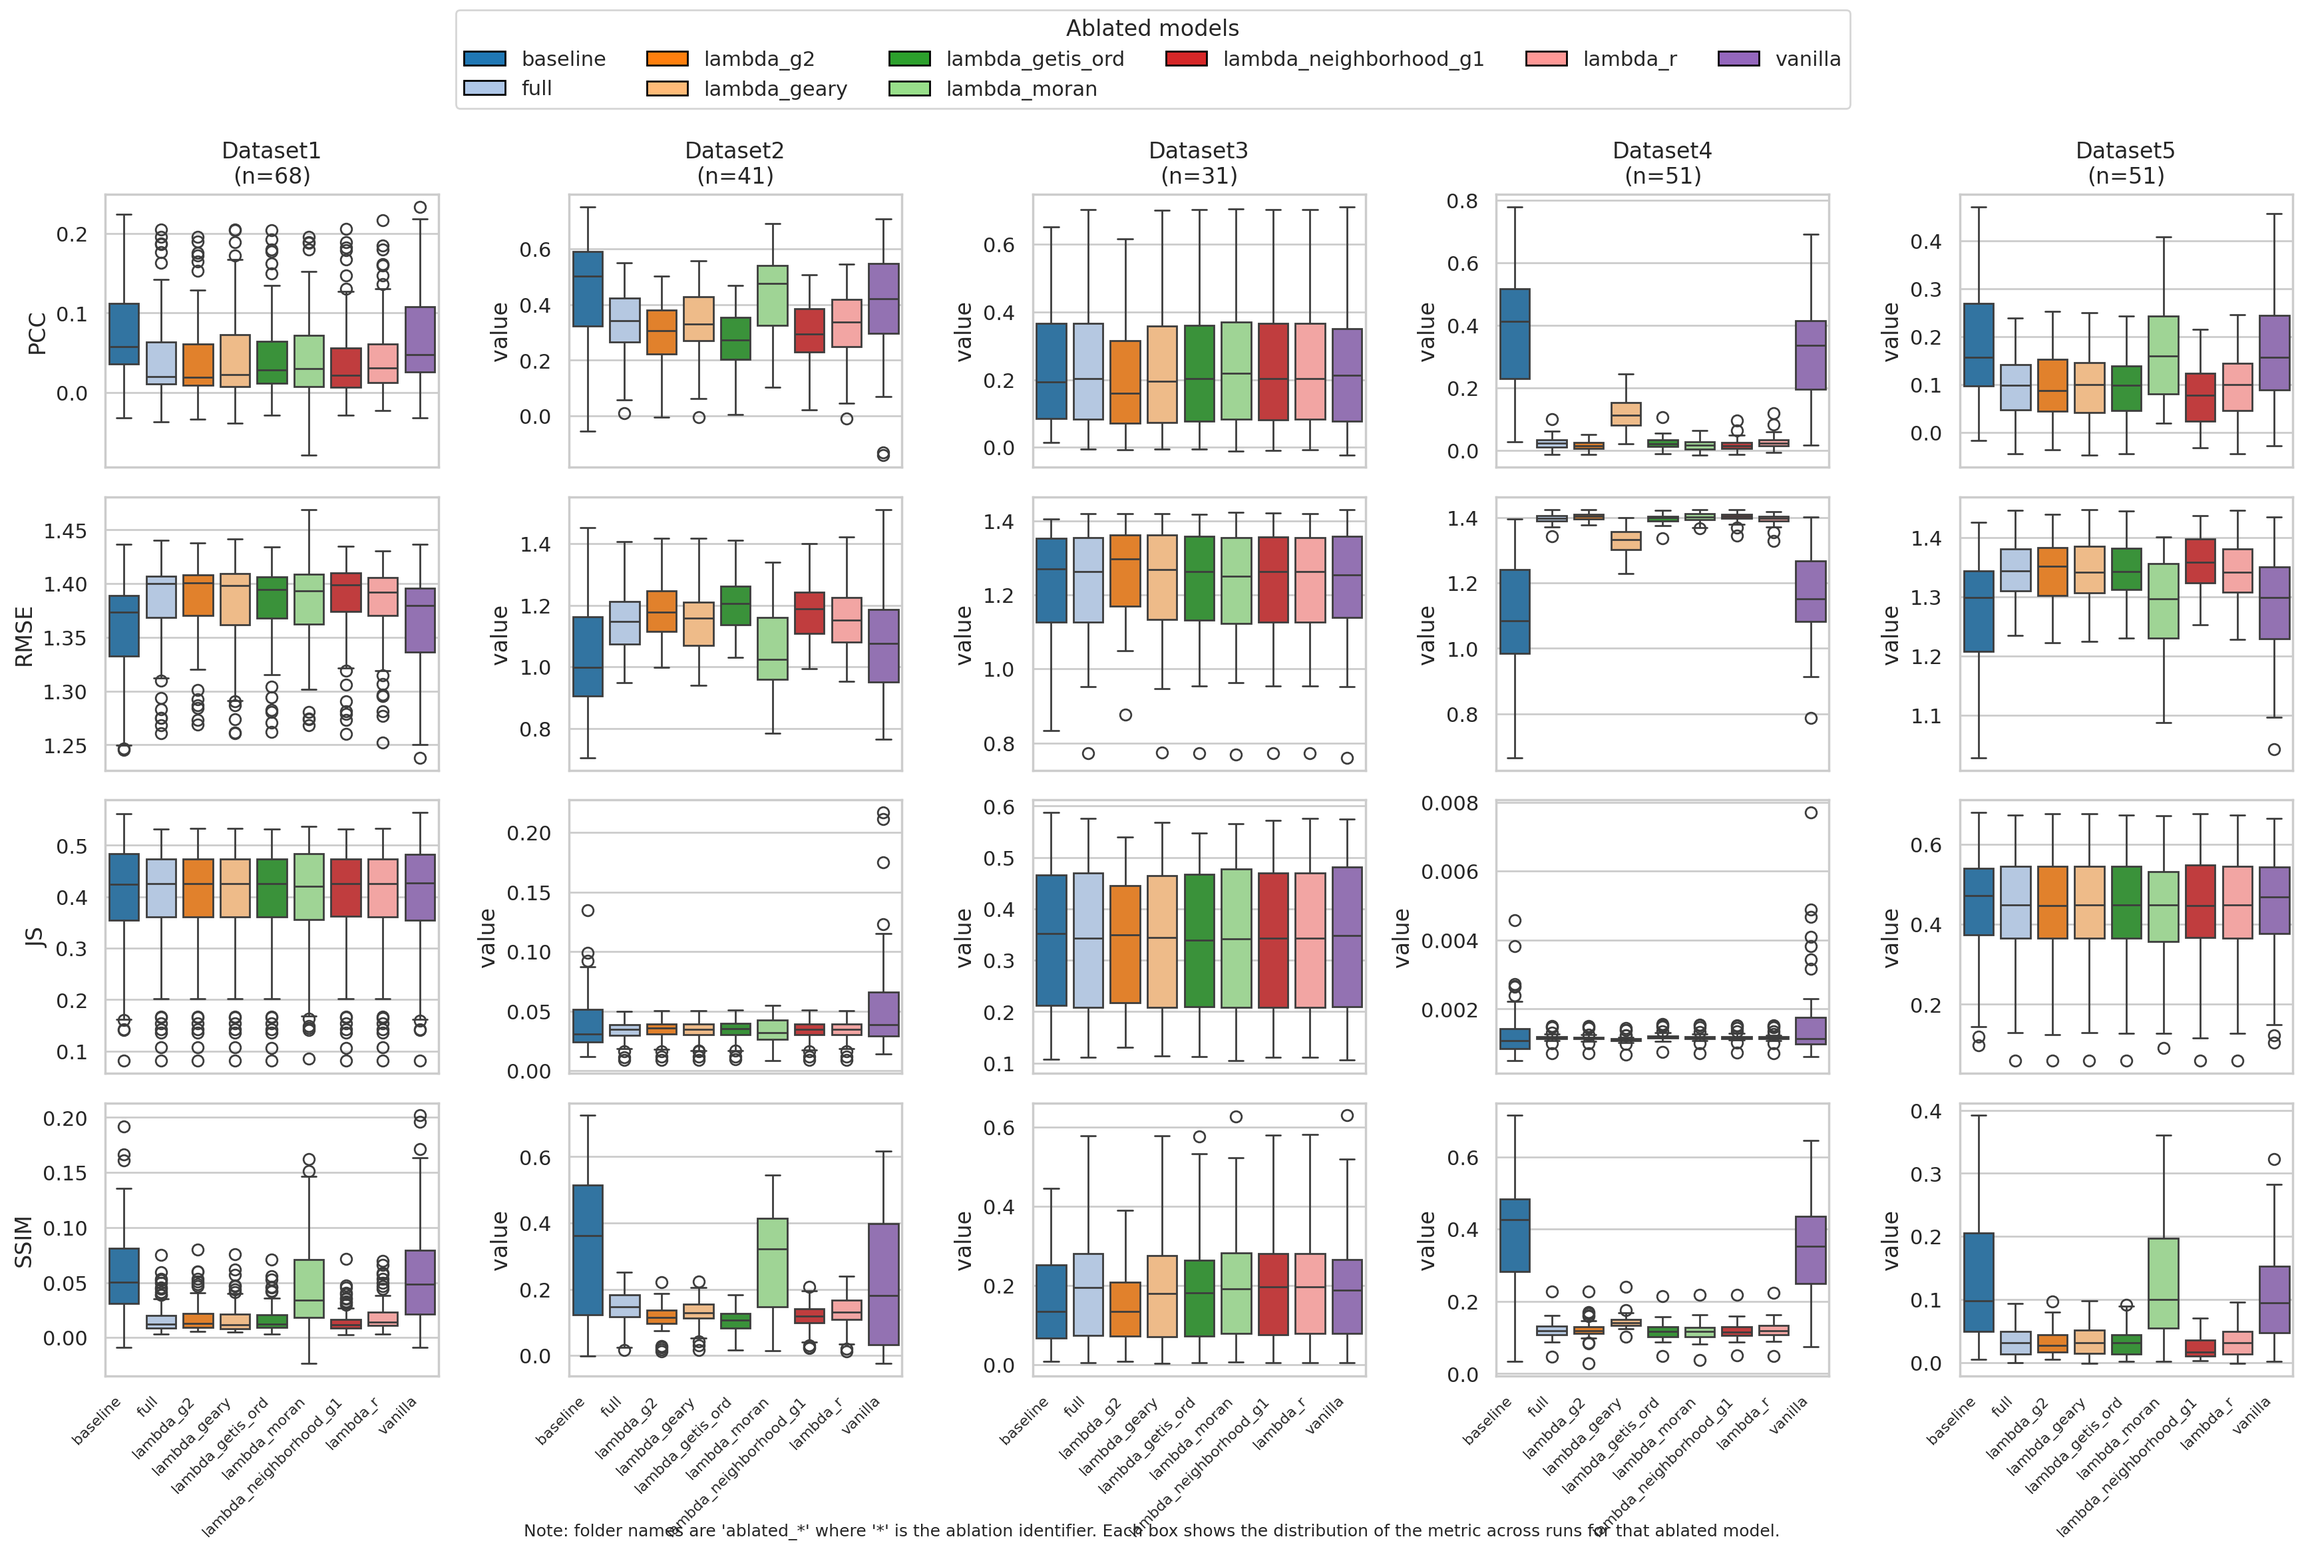
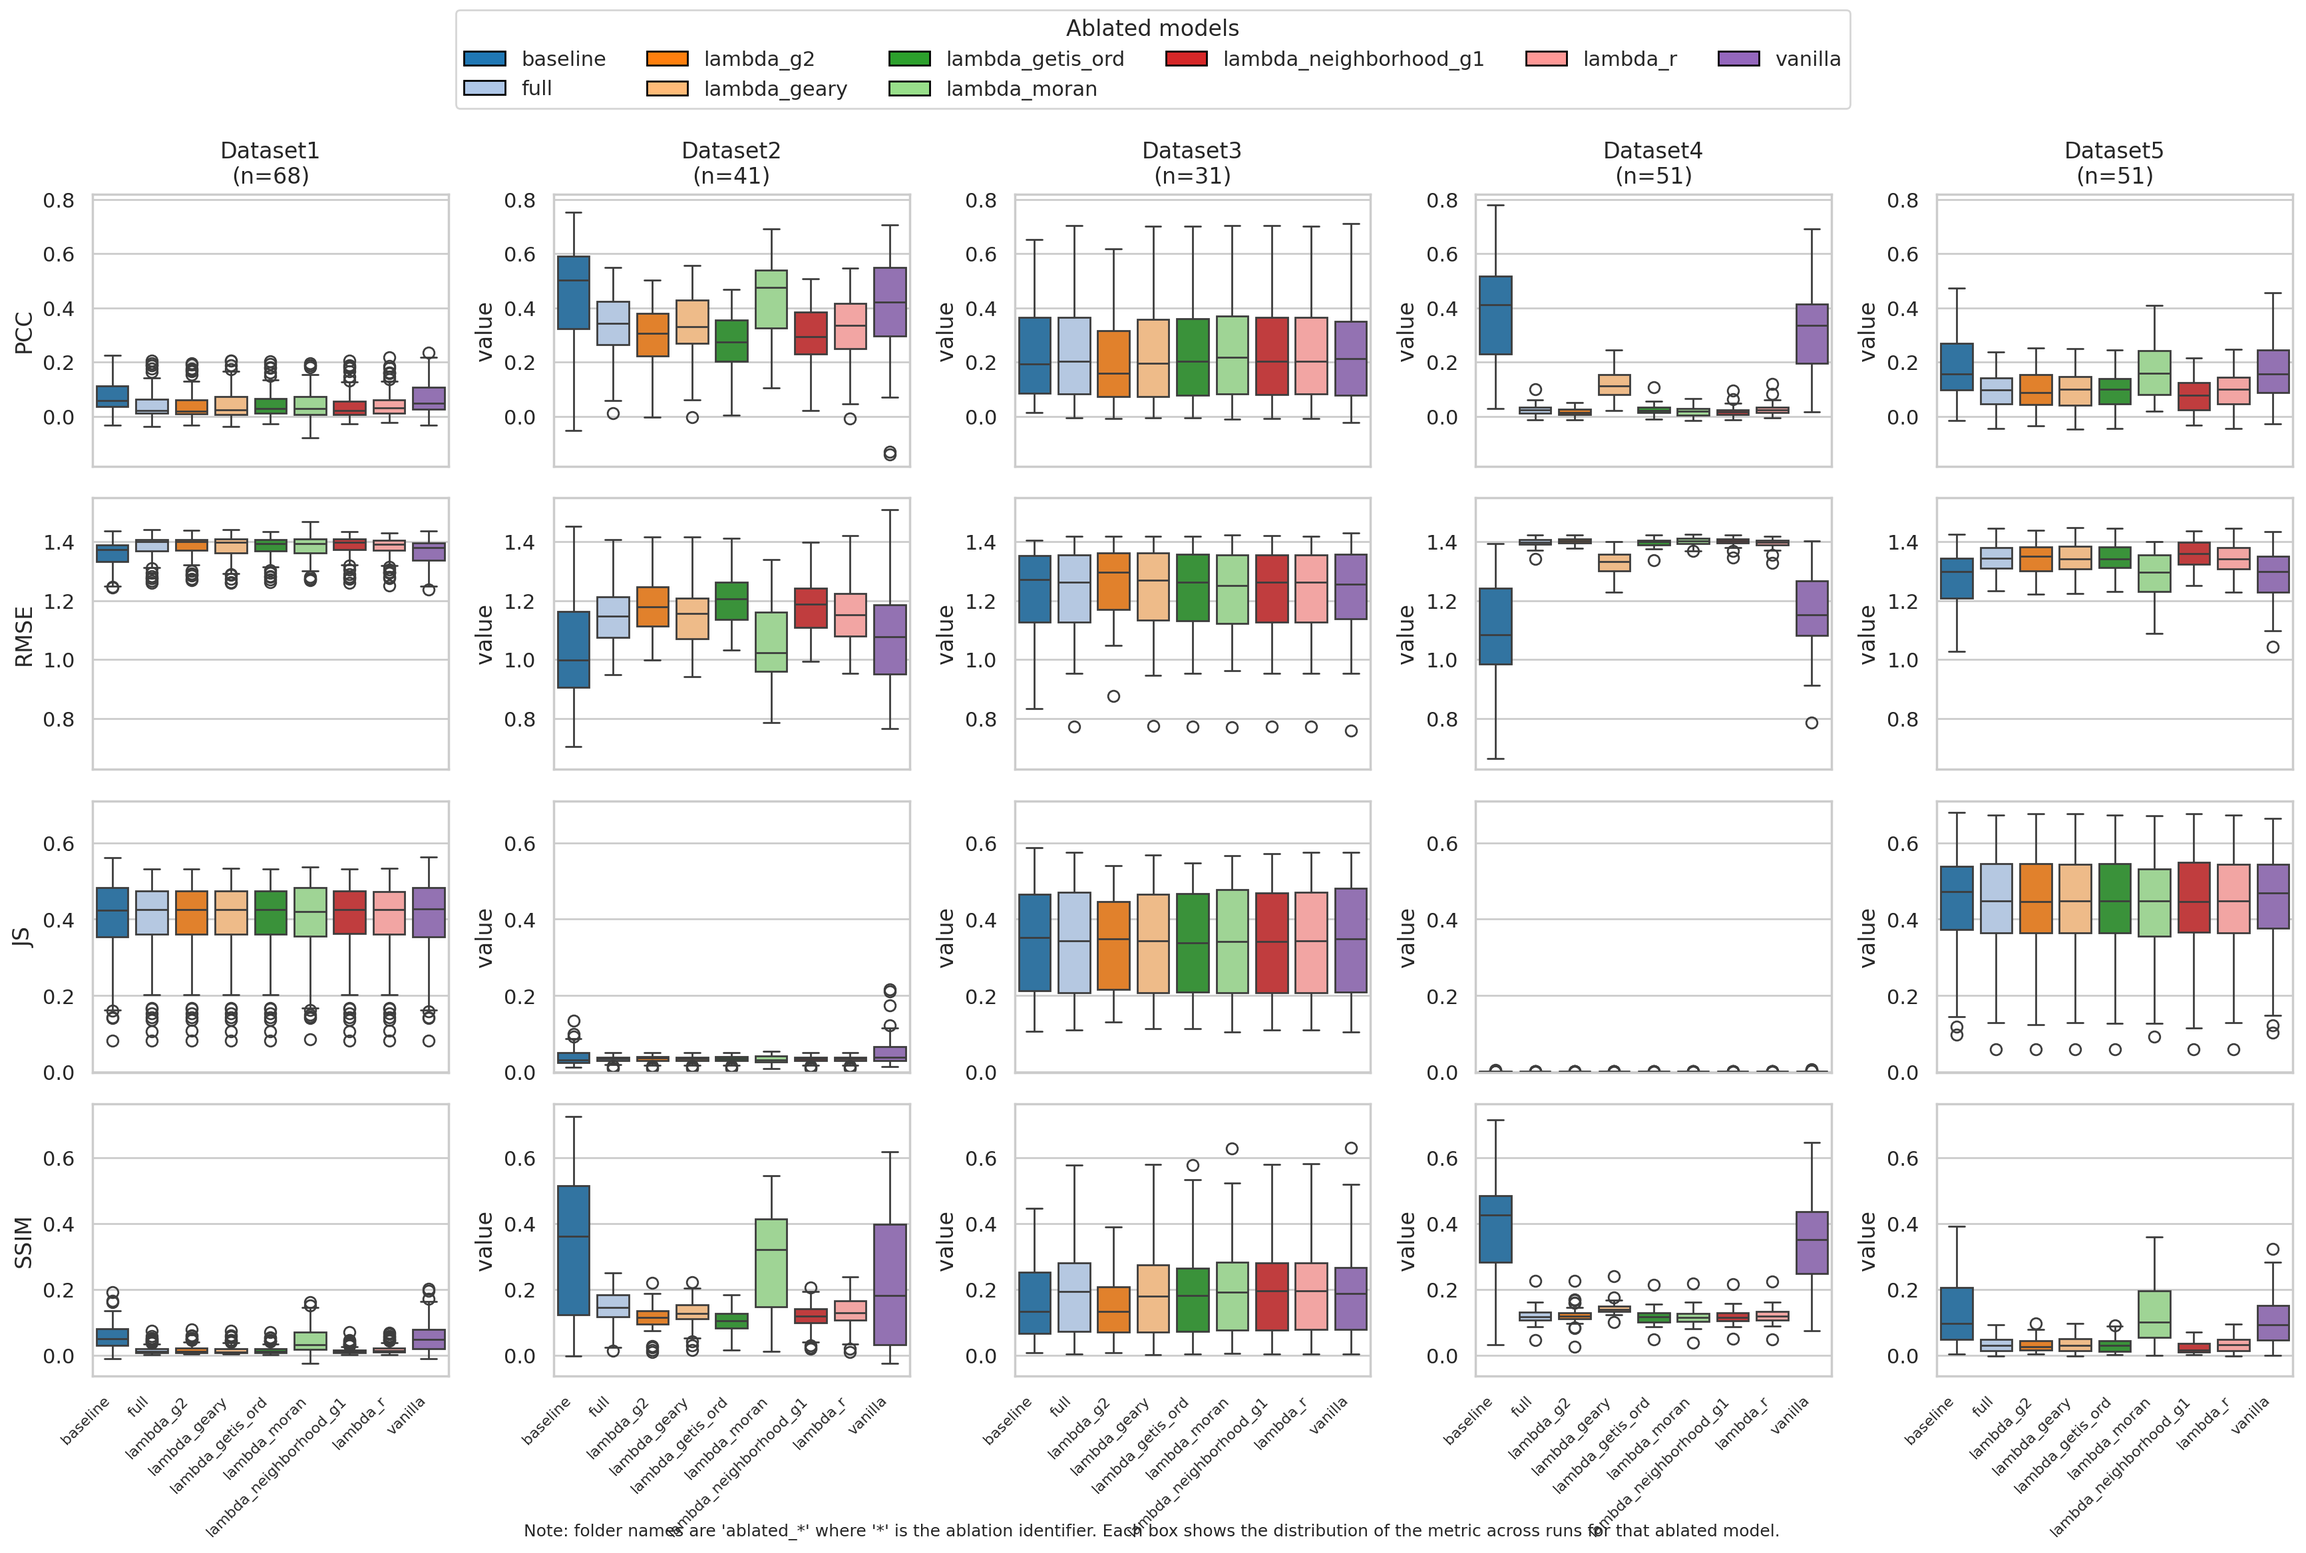
anchor y axes for all plots

diff --git a/benchmarking/benchmark_addition.py b/benchmarking/benchmark_addition.py
@@ -302,6 +302,23 @@ def make_and_save_plots(results: dict, split: str = "train", datasets=None, spli
                 n_text = n_per_split if isinstance(n_per_split, int) and n_per_split >= 0 else "?"
                 ax.set_title(f"{ds}\n(n={n_text})")
 
+    # Normalize y-axis limits within each row (metric)
+    for i, metric in enumerate(METRICS):
+        # Collect all y-limits from this row
+        y_mins, y_maxs = [], []
+        for j in range(cols):
+            ax = axes[i][j]
+            y_min, y_max = ax.get_ylim()
+            y_mins.append(y_min)
+            y_maxs.append(y_max)
+        
+        # Set uniform limits for all subplots in this row
+        if y_mins and y_maxs:
+            global_y_min = min(y_mins)
+            global_y_max = max(y_maxs)
+            for j in range(cols):
+                axes[i][j].set_ylim(global_y_min, global_y_max)
+
     # Add global legend and caption
     import matplotlib.patches as mpatches
     legend_handles = [mpatches.Patch(facecolor=addition_palette[ab], edgecolor='black', label=addition_display[ab]) for ab in all_additions]

diff --git a/benchmarking/benchmark_ablation.py b/benchmarking/benchmark_ablation.py
@@ -250,6 +250,23 @@ def make_and_save_plots(results: dict, split: str = "train", datasets=None, spli
                 n_text = n_per_split if isinstance(n_per_split, int) and n_per_split >= 0 else "?"
                 ax.set_title(f"{ds}\n(n={n_text})")
 
+    # Normalize y-axis limits within each row (metric)
+    for i, metric in enumerate(METRICS):
+        # Collect all y-limits from this row
+        y_mins, y_maxs = [], []
+        for j in range(cols):
+            ax = axes[i][j]
+            y_min, y_max = ax.get_ylim()
+            y_mins.append(y_min)
+            y_maxs.append(y_max)
+        
+        # Set uniform limits for all subplots in this row
+        if y_mins and y_maxs:
+            global_y_min = min(y_mins)
+            global_y_max = max(y_maxs)
+            for j in range(cols):
+                axes[i][j].set_ylim(global_y_min, global_y_max)
+
     # add overall caption explaining the ablated_* wildcard meaning
     # add global legend mapping colors to ablation names
     import matplotlib.patches as mpatches

diff --git a/benchmarking/benchmark_methods.py b/benchmarking/benchmark_methods.py
@@ -416,6 +416,23 @@ def main(argv: List[str] | None = None) -> None:
 		except Exception as e:
 			logging.error("Dataset %s top-level failure: %s", dataset_id, e)
 
+	# Normalize y-axis limits within each row (metric)
+	for i, metric in enumerate(METRICS):
+		# Collect all y-limits from this row
+		y_mins, y_maxs = [], []
+		for j in range(cols):
+			ax = axes[i][j]
+			y_min, y_max = ax.get_ylim()
+			y_mins.append(y_min)
+			y_maxs.append(y_max)
+		
+		# Set uniform limits for all subplots in this row
+		if y_mins and y_maxs:
+			global_y_min = min(y_mins)
+			global_y_max = max(y_maxs)
+			for j in range(cols):
+				axes[i][j].set_ylim(global_y_min, global_y_max)
+
 	# After processing all datasets, finalize legend/caption and save the figure
 	# Build legend mapping colors to methods seen
 	ordered_methods_global = sorted(m for m in methods_seen if m is not None)
